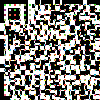
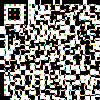
Updated canada.pymy1.png .

diff --git a/canada.py b/canada.py
@@ -34,7 +34,7 @@ moverPieza(outp,1,9,0,11)
 moverPieza(outp,2,8,0,5)
 moverPieza(outp,3,0,0,14)
 moverPieza(outp,4,7,0,9)
-moverPieza(outp,5,3,0,8)
+moverPieza(outp,5,3,0,7)
 moverPieza(outp,7,17,0,13)
 moverPieza(outp,8,8,0,1)
 moverPieza(outp,10,1,0,16)
@@ -44,7 +44,7 @@ moverPieza(outp,13,6,0,18)
 moverPieza(outp,15,5,0,2)
 moverPieza(outp,16,5,0,6)
 moverPieza(outp,17,4,0,12)
-moverPieza(outp,17,12,0,7)
+moverPieza(outp,17,12,0,8)
 moverPieza(outp,18,10,0,17)
 moverPieza(outp,19,17,0,19)
 moverPieza(outp,19,5,3,3)
